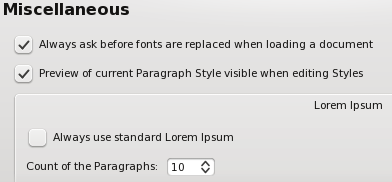
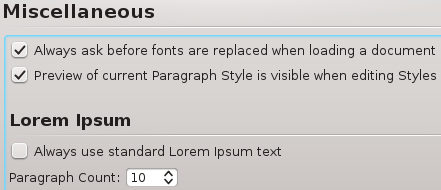
total rework of Preferences doc in manual
git-svn-id: https://scribus.net/svn/Scribus/trunk@17655 11d20701-8431-0410-a711-e3c959e3b870

diff --git a/Scribus/doc/en/settings1.html b/Scribus/doc/en/settings1.html
@@ -10,126 +10,202 @@
 <li><strong>Document Setup</strong> will refer to the document being edited, and changes made for that document will be saved with the document and apply when it is re-opened. If you have no document open, you cannot select this dialog.</li>
 <li><strong>Preferences</strong> in general changes settings for any future documents. It will be available whether or not you have any documents open. The following descriptions will primarily apply to Preferences, but we will point out differences compared with Document Setup as we go.</li>
 </ul>
-<br>
-<br>
 <table cellpadding="5">
 <tr><td width="200" valign="top"><ul>
-<li><a href="#1"><strong>General</strong></a></li>
-<li><a href="#2"><strong>Document</strong></a></li>
-<li><a href="#3"><strong>Guides</strong></a></li>
-<li><a href="#4"><strong>Typography</strong></a></li>
-<li><a href="#5"><strong>Tools</strong></a></li>
-<li><a href="#6"><strong>Hyphenation</strong></a></li>
-<li><a href="#7"><strong>Fonts</strong></a></li>
-<li><a href="#8"><strong>Preflight Verifier</strong></a></li>
+<li><a href="#1"><strong>User Interface</strong></a></li>
+<li><a href="#2"><strong>Paths</strong></a></li>
+<li><a href="#3"><strong>Document Setup</strong></a></li>
+<li><a href="#4"><strong>Guides</strong></a></li>
+<li><a href="#5"><strong>Typography</strong></a></li>
+<li><a href="#6"><strong>Item Tools</strong></a></li>
+<li><a href="#7"><strong>Operator Tools</strong></a></li>
+<li><a href="#8"><strong>Hyphenator</strong></a></li>
+<li><a href="#9"><strong>Fonts</strong></a></li>
 </ul></td>
 <td width="300" valign="top"><ul>
 </li>
-<li><a href="#9"><strong>Color Management</strong></a></li>
-<li><a href="#10"><strong>PDF Export</strong></a></li>
-<li><a href="#11"><strong>Document Item Attributes</strong></a></li>
-<li><a href="#11"><strong>Table of Contents and Indexes</strong></a></li>
-<li><a href="#12"><strong>Keyboard Shortcuts</strong></a></li>
-<li><a href="#13"><strong>Scrapbook</strong></a></li>
+<li><a href="#10"><strong>Color Management</strong></a></li>
+<li><a href="#11"><strong>Printer</strong></a></li>
+<li><a href="#12"><strong>PDF Export</strong></a></li>
+<li><a href="#13"><strong>Preflight Verifier</strong></a></li>
+<li><a href="#14"><strong>Document Item Attributes</strong></a></li>
+<li><a href="#15"><strong>Table of Contents</strong></a></li>
+<li><a href="#16"><strong>Keyboard Shortcuts</strong></a></li>
+<li><a href="#17"><strong>Scrapbook</strong></a></li>
+<li><a href="#18"><strong>Spelling</strong></a></li>
 </ul></td>
 <td valign="top"><ul>
-<li><a href="#14"><strong>Display</strong></a></li>
-<li><a href="#15"><strong>External Tools</strong></a></li>
-<li><a href="#16"><strong>Miscellaneous</strong></a></li>
-<li><a href="#17"><strong>Plugins</strong></a></li>
-<li><a href="#18"><strong>Short Words</strong></a></li>
-<li><a href="#19"><strong>Scripter</strong></a></li>
-<li><a href="#20"><strong>Document Information</strong></a></li>
+<li><a href="#19"><strong>Display</strong></a></li>
+<li><a href="#20"><strong>External Tools</strong></a></li>
+<li><a href="#21"><strong>Miscellaneous</strong></a></li>
+<li><a href="#22"><strong>Page Sizes</strong></a></li>
+<li><a href="#23"><strong>Plugins</strong></a></li>
+<li><a href="#24"><strong>Image Cache</strong></a></li>
+<li><a href="#25"><strong>Short Words</strong></a></li>
+<li><a href="#26"><strong>Scripter</strong></a></li>
+<li><a href="#27"><strong>Document Information</strong></a></li>
 </ul></td></tr>
 </table>
-<h3><a name="1"></a>General (not present in Document Setup)</h3>
-<p>You may have started up Scribus in a particular <strong>Language</strong> &ndash; here we expect to see the system default language, but you can override that setting, which will remain on future startups until you change again.</p>
-<p>The <strong>Theme</strong> will be whatever your main system theme is when none is selected, but otherwise your choices depend on your operating system or desktop environment and its available themes (if any). You can also change the size of the font used in the user interface. The various other settings are straightforward, and experimentation will be your guide.</p>
-<p>The various &ldquo;paths&rdquo; are the default locations Scribus will use. The path for scripts is where Scribus looks when you choose <em>Scripts > Execute Script</em> from the menu bar.</p>
-<table width="90%"><tr><td align="center"><img src="images/prefs_general.png" align="center" alt="Preferences: General" title="General Preferences" width="680"/></td></tr></table>
-<h3><a name="2"></a>Document</h3>
-<p>In Preferences, the various settings here will be those that you see when you create a new document (<em>File > New</em>). In the Document Setup, they will change the current document. The <strong>Page Size</strong> section should be easily understandable, with a large selection of standard sizes to choose from, in addition to <em>Custom</em>. The <strong>Document Layout</strong> choices have been the source of confusion for some. These simply apply to the relative placement of pages on your screen, and each will have the size as indicated, not some subdivision of it. <em>Double Sided</em> would typically be chosen for a book-like layout, and thus the First Page selector at the bottom allows the initial page to be Right or Left. This helps you use the appropriate <a href="pagetemplate1.html">Master Page</a> layout.</p>
-<table width="90%"><tr><td align="center"><img src="images/prefs_document.png" align="center" alt="Default Document Settings" title="Default Document Settings"  width="680" /></td><td width="275"><img src="images/prefs_document1.png" width="250"><p>Here is an example of Double Sided, Right Page as the first (also happens to be two-column). If you print these on a local printer, they will print as individual pages.</td></tr></table>
-<p><strong>Preset Layouts</strong> will be available for anything other than Single Page layout. What these represent are some time-honored ways to set the margins of the page, many based on some mathematical approach related to the dimensions of the page. Below we see the contrast of these various methods &ndash; these are all right pages of a double-sided layout.</p>
+For Scribus versions 1.5+, Preferences has a new look, mostly a redistribution of the same settings there were in previous versions.
+<p>
+<img src="images/prefs_15x.png">
+</p>
+<h3><a name="1"></a>User Interface (not present in Document Setup)</h3>
+<ul>
+<li><strong>Main Window</strong>
+<ul>
+<li><strong>Language:</strong> &ndash; here is the system default language (the choice with no name is American English).</li>
+<li><strong>Theme:</strong> your choices here depend on what is available on your sytem. <i>Use Small Widgets</i> can make some dialogs more compact.</li>
+<li><strong>Recent Documents:</strong> determines the maximum number of files listed under <i>File > Open Recent</i>.</li>
+<li><strong>Font Sizes:</strong> for menus and palettes may also affect the size of various dialogs by enlarging/shrinking the space needed for fonts.</li>
+</ul></li>
+<li><strong>Story Editor</strong>
+<ul><li>Here we can change the display font, color, and set Smart Text function. If you set these inside Story Editor from <i>Settings</i> you will override this and also reset the Preferences settings.</li>
+</ul></li>
+<li><strong>Interactivity</strong>
+<ul><li>Here are some settings affecting your mouse interactions with the canvas.</li></ul>
+</li>
+<li><strong>Start Up</strong>
+<ul><li>If you wish, you can choose not to have a splash screen or the initial dialog that appears when Scribus starts.</li></ul>
+</li>
+</ul>
+<h3><a name="2"></a>Paths</h3>
+The various &ldquo;paths&rdquo; are the default locations Scribus will use. The path for scripts is where Scribus looks when you choose <em>Scripts > Execute Script</em> from the menu bar.
+<h3><a name="3"></a>Document Setup</h3>
+<p><img src="images/prefs_docsetup.png"></p>
+<p>In Preferences, the various settings here will be those that you see when you create a new document (<em>File > New</em>). In the Document Setup, they will change the current document.</p>
+<ul>
+<li>Size</li>
+<ul>
+<li><strong>Page Size</strong> section should be easily understandable. You may be surprised to see only choices for A4, Letter, and Custom when you first use Scribus. This is because there is a separate category <a href="#22"><strong>Page Sizes</strong></a>, where you can add to these 3 default choices. with a large selection of standard sizes to choose from, in addition to <em>Custom</em>.</li>
+<li><strong>Orientation</strong>, either <i>Portrait</i> or <i>Landscape</i></li>
+<li><strong>Units</strong> refers to the page dimension units: <i>Points, Millimeters, Inches, Picas, Centimeters,</i> or <i>Cicero.</i></li>
+<li><strong>Width</strong> and <strong>Height</strong> will have preset values for <i>Page Size</i> standards. If you change either setting, the size automatically switches to <i>Custon</i>.</li>
+</ul>
+<li>Layout</li>
+<ul>
+<li><strong>Page Layout</strong> choices have been the source of confusion for some. These simply apply to the relative placement of pages on your screen, and each will have the size as indicated, not some subdivision of it. Choices are <i>Single Page, Double Page, 3-Fold,</i> and <i>4-Fold</i>. Double Page would typically be chosen for a book-like layout, and thus the First Page selector at the bottom allows the initial page to be <i>Right Page</i> or <i>Left Page</i>. This helps you use the appropriate <a href="pagetemplate1.html">Master Page</a> layout. 3-Fold displays will then have <i>Left Page, Middle,</i> and <i>Right Page</i> choices. Not surprisingly, 4-Fold will have the choices <i>Left Page, Middle Left, Middle Right,</i> and <i>Right Page</i>.</p></li>
+<table width="60%"><tr><td width="275"><img src="images/prefs_document1.png" width="250"></td><td>Here is an example of Double Page display, Right Page as the first (also happens to be two-column text frames).<p>If you print these on a local printer, they will print as individual pages, and this is also true for 3-Fold and 4-Fold local printer printing.</p></td></tr></table>
+</ul>
+<li>Margins and Bleeds</li>
+<ul>
+<li><strong>Preset Layouts</strong> will be available for anything other than Single Page layout. What these represent are some time-honored ways to set the margins of the page, many based on some mathematical approach related to the dimensions of the page. Below we see the contrast of these various methods &ndash; these are all right pages of a double-sided layout.</li>
 <p><table cellpadding="3"><tr>
 <td align="center"><img src="images/prefs_gutenberg.png"><p>Gutenberg</td><td align="center"><img src="images/prefs_magazine.png"><p>Magazine</td><td align="center"><img src="images/prefs_fibonacci.png"><p>Fibonacci</td><td align="center"><img src="images/prefs_goldenmean.png"><p>Golden Mean</td><td align="center"><img src="images/prefs_9parts.png"><p>Nine Parts</td>
 </tr></table>
-<h3><a name="3"></a>Guides</h3>
-<p>Although labeled <strong>Guides</strong>, there are many other settings here, mostly related. Guides can either show above or below your content. <strong>Snapping: Snap Distance</strong> applies when <em>Page > Snap to Guides</em> or <em>Page > Snap to Grid</em> has been selected. <strong>Grab Radius</strong> has to do with the size of the virtual space for grabbing and dragging a frame&rsquo;s handles. As the tooltips indicate, you must shut down and restart Scribus for these to take effect when they are changed.</p>
-<p>This panel sets the default distances and colors, as well as the snap to settings. <strong>Baseline Grids</strong> is the set of horizontal guides which forces text in multiple columns to align horizontally, as shown below. Settings for the distances for baselines are in Paragraph Styles, as well as the next panel <strong>Typography</strong></p>
-
+<li>If you choose <i>None</i> for the preset, then you can manually set each margin. If you check <strong>Link</strong> then all margin values are the same and change together. Note that except for Single Page display, there are <i>Inside</i> and <i>Outside</i> margins instead of <i>Left</i> and <i>Right</i>, so they are placed differently for left and right pages. Clicking the <strong>Printer Margins</strong> button allows you to set margins according to your local printer. The dialog shows the minimum margins for you printer, which you might just use as a reference.</li>
+<li>Using <strong>Bleeds</strong> requires an understanding of how they are used. The bleed space is designed to be trimmed off after printing, and allows for whatever is printed to come to the absolute edge of the paper. A typical bleed amount might be 1/8 inch (9 points) in the US, or 3 mm in Europe. If you begin with a standard paper size such as A4, the bleed width is <i>added</i> to the dimensions of that paper.</li>
+</ul>
+<li>Saving & Undo</li>
+<ul>
+<li><i>Save in Compressed Format</i> will gzip your Scribus documents, so that filenames end with <i>.sla.gz</i> &ndash; this is an automatic process which requires no knowledge of how this is done on your part.</li>
+<li><strong>Autosave</strong> can be turned off/on, and the interval between automatic saving can be set.</li>
+<li>Under <strong>Undo/Redo</strong>, you can enable or disable this system, and you can specify how many operations for Scribus to remember for undoing.</li>
+</ul>
+</ul>
+<h3><a name="4"></a>Guides</h3>
+<ul>
+<li>Placement</li>
+<p>Although labeled <strong>Guides</strong>, there are many other settings here, mostly related. Guides can either show above or below your content. You can now have a fine adjustment of the relative placement of Guides, Grid, Baseline Grid, and Margins with respect to your page content. <strong>Snapping: Snap Distance</strong> applies when <em>Page > Snap to Guides</em> or <em>Page > Snap to Grid</em> has been selected. <strong>Grab Radius</strong> has to do with the size of the virtual space for grabbing and dragging a frame&rsquo;s handles. As the tooltips indicate, you must shut down and restart Scribus for these to take effect when they are changed.</p>
 <table width="90%"><tr><td align="center"><img src="images/prefs_guides.png" alt="Guides and Baseline Grid Settings" align="middle" title="Guides and Baseline Grid Settings" /></td></tr></table>
-<table width="80%"><tr><td valign="top">By default, Guides and Margins will show, but can be changed here, along with the color of each. Major and Minor Grids do not show by default &ndash; here we have changed the default colors so you can easily see the difference in the screenshot to the right, with page edges shown in red, margins in blue, major grid light green, and minor grid in light magenta.
-<p>Finally, at the bottom of the dialog we can choose to show the baseline grid by default, and adjust its default settings.</p>
-<p>Find out more about the baseline grid in <a href="WwText.html#10">Working with Text</a>.</td>
+<ul>
+<li><i>Distances</i> sets up the spacing between major and minor <i>Grid</i> lines, and also for the <i>Baseline Grid</i> which is the set of horizontal guides to which text can be aligned. This is shown further in <a href="WwText.html#10">Working with Text</a>. The <i>Baseline Grid Offset</i> is the distance from the top of the page to the first line of the Baseline Grid.</li>
+</ul>
+<li>Visibility</li>
+<ul>
+<table width="70%"><tr><td valign="top">By default, Guides and Margins will show, but can be changed here. Major and Minor Grids do not show by default.
+<p>Here we have changed the default colors so you can easily see the difference in the screenshot to the right, with page edges shown in red, margins in blue, major grid light green, and minor grid in light magenta. A new setting is that instead of the grid consisting of lines as you see here, there can be crosses to mark the major grid intersections and dots for the lines.</p></td>
 <td><img src="images/prefs_guides1.png"></td>
 </tr>
 </table>
+</ul>
+<li>Colors &ndash; this is where you change the default colors of all these elements.</li>
+</ul>
+<h3><a name="5"></a>Typography</h3>
+<p>Here are the default settings for various typographic features.
+<table cellpadding="5"><tr>
+<td><img src="images/prefs_typog2.png"></td>
+<td><strong><i>Some typographic terms</i></strong><br />To the left, we are showing the baseline in gray, x-height or midline in green, ascender height in magenta, and descender height in blue. The terms &lsquo;x-height&rsquo; and &lsquo;descender height&rsquo; refer to the distance from the baseline, &lsquo;ascender height&rsquo; refers to the distance from the x-height. For clarity, the caps height was not marked, but this would be the top of the &lsquo;T&rsquo;.</td></tr></table> 
+<ul>
+<li>For <i>Subscript and Superscript</i>, settings are similar, with <i>Displacement</i> referring to the distance downward or upward, respectively, from the baseline, as a percentage of font size. <i>Scaling</i> is the size as a percentage of the font size.</li>
+<li>For <i>Underline</i> and <i>Strikeout</i> the <i>Displacement</i> will be relative to the baseline, and a percentage of the height of the descender or ascender respectively.</li>
+<li>The setting for <i>Small Caps</i> will refer to the creation of small caps by Scribus based on the font. Some fonts may include glyphs for small caps, which should be used if available.</li>
+<li>In addition, the amount of <i>Automatic Linespacing</i> can be adjusted relative to the size of the font. A setting of 100% here will make the linespacing about 116% of the size of the font &ndash; for example, a 12-point font would have linespacing of about 14 points.</li>
+</ul>
+<h3><a name="6"></a>Item Tools</h3>
+<p>In the Tools tab you can change the default settings for the various objects you create.</p>
+<p><img src="images/prefs_itemtools.png"></p>
+<ul>
+<li>Text &ndash; Fill Color and Shading, Line Color and Shading (Fill Color and Line Color refer to the frame), Tab Fill Character, default Tab width, number of Columns in a frame, Column Gap width, distances of text from the edges of the frame: Top, Left, Bottom, and Right. You also choose the default Font, its Size, its Color and Shading, its Stroke and Shading. Stroke refers to the outline of the glyph and Color is the fill. There is also a Preview at the bottom of the tab to see your changes as you make them.</li>
+<li>Images &ndash; Fill Color and Shading, Line Color and Shading, a check to Use an Embedded Clipping Path. You can choose Free Scaling for imported images and the default Scaling. Alternatively you might choose to Scale Image to Frame Size, and perhaps to Keep Aspect Ratio. Lastly, you choose the default screen resolution of images, which only applies to the display in Scribus, not the resolution in an exported PDF.</li>
+<li>Shapes &ndash; Fill Color and Shading, Line Color and Shading, Line Style, and Line Width.</li>
+<li>Regular Polygons &ndash; Polygons will inherit the fill and line settings from Shapes. Here you set the number of Corners and Rotational position of the figure. Inner Rotation is only active when you check Apply Factor. The Factor setting determines whether the sides of the polygon bow inward or outward, and Inner Curvature and Outer Curvature causes and inward or outward bowing of the line segments between corners. Since there is a preview window, you can see the effect of various changes.</li>
+<li>Line &ndash; Line Color and Shading, Line Style, Width, and the type of Start Arrow and End Arrow, if any.</li>
+<li>Calligraphic Pen &ndash; Fill Color and Shading, Line Color and Shading. Line here might also be called the &lsquo;Stroke&rsquo; or borders of the calligraphic line. Line Style and Pen Angle can also be set, and Line Width and Pen Width. Pen Width here is the fill of the calligraphic line, between the strokes.</li>
+<li>Arc &ndash; Start Angle and End Angle. A preview shows your settings graphically.</li>
+<li>Spiral &ndash; Start Angle (outer end of the spiral), End Angle (inner end of the spiral). Factor determines how sharply it spirals inward. Again, there is a preview window.</li>
+</ul> 
 
-<h3><a name="4"></a>Typography</h3>
-<p>Here are the default settings for various typographic features &ndash; subscript, superscript, automatic line spacing and scaling of small capitals.</p>
-<p>In addition, the amount of automatic linespacing can be adjusted relative to the size of the font. <em>Note that the 20% is in addition to the space required for the next line of text, so that the total space from one baseline to the next would be 120% of the font size.</em></p>
-<p><table width="90%"><tr><td align="center"><img src="images/prefs_typog.png" align="center" alt="Typography Tab Panel"/></td></tr></table>
-
-<h3><a name="5"></a>Tools</h3>
-<p>In the Tools tab you can change the defaults for text and image frames, shapes and polygons, and lines. In addition, there are page magnification settings, plus the defaults for duplication and rotation of objects.</p>
-
-<table width="100%">
-<tr><td align="center"><img src="images/prefs_tools.png" alt="Tools Tab Panel"/></td>
-<td><img src="images/prefs_tools1.png"/></tr>
-<tr><td align="center"><img src="images/prefs_tools2.png" alt="Tools Tab Panel"/></td>
-<td><img src="images/prefs_tools3.png"></tr>
-<tr><td align="center" colspan="2"><img src="images/prefs_tools4.png" alt="Tools Tab Panel"/></td></tr>
-<tr><td align="center"><img src="images/prefs_tools5.png">
-<td align="center"><img src="images/prefs_tools6.png" alt="Tools Tab Panel"/></td></tr>
-</table>
-
-<h3><a name="6"></a>Hyphenation</h3>
+<h3><a name="7"></a>Operator Tools</h3>
+<ul>
+<li>Zoom &ndash; here you set the limits for document zoom, with the absolute Minimum and Maximum being 1% and 3200% respectively. You also set the percentage of change as you click the &lsquo;-&rsquo; and &lsquo;+&rsquo; icons for zooming.</li>
+<li>Miscellaneous &ndash; when you do a simple duplication of an object (<i>Item > Duplicate</i>), here are settings for the amount of X and Y shift of the copy. The Constrain To setting for Rotation would apply when you rotate with the mouse while holding down Ctrl-Shift, and also when you make a line segment while holding down Ctrl-Shift. So you would see the position jump from 0° to 15° to 30°, and so on.</li>
+</ul>
+<h3><a name="8"></a>Hyphenator/Hyphenation</h3>
 <p>Hyphenation details are described here: <a href="hyphenator.html">Hyphenation in Scribus</a>.</p>
 
-<h3><a name="7"></a>Fonts</h3>
+<h3><a name="9"></a>Fonts</h3>
 <p>Selecting and installing fonts correctly is one of the most important configuration items with Scribus, and an extensive set of notes is here: <a href="fonts1.html">Fonts and Scribus</a>. If there is one part of the documentation you really must read, it is this one.</p>
 
-<h3><a name="8"></a>Preflight Verifier</h3>
-<p>See the information about <a href="print2.html">Printing Tools</a> to learn more about the configuration options in this panel.</p>
-
-<h3><a name="9"></a>Color Management</h3>
+<h3><a name="10"></a>Color Management</h3>
 <p>There are detailed notes on this topic in the <a href="cms.html">Color Management</a> section.
-<table width="90%"><tr><td align="center"><img src="images/prefs_colormgmt.png" alt="Color Management Preferences" title="Color Management Preferences" width="680" /></td></tr></table>
-<p><em>Note: You will not be able to export to PDF/X-3 if color management is not enabled, and the Preferences settings for this format will likewise not be available.</em></p>
-
-<h3><a name="10"></a>PDF Export</h3>
+<table width="90%"><tr><td align="center"><img src="images/prefs_colormgmt.png" alt="Color Management Preferences" title="Color Management Preferences" /></td></tr></table>
+<p><em>Note: You will not be able to export to PDF/X-3 if color management is not enabled, and the Preferences settings for this format will likewise not be available. You can only set the Monitor Profile if no document is open.</em></p>
+<h3><a name="11"></a>Printer/Printing</h3>
+The settings here of course apply to printing from your local printer attached to your computer, or perhaps printing to a file instead, which creates a PostScript file of your document. Thus, many of these are the same as you see in the printing dialog. So we can set our defaults in Preferences.
+<h3><a name="12"></a>PDF Export</h3>
 <p>Remember that the settings here simply change the default values for PDF Export. You can still override any settings with the PDF Export dialog. For more info on PDF look at <a href="pdfexport1.html">PDF Export Options</a> and <a href="pdfx3.html">PDF/X-3 and Scribus</a>.</p>
 
-<table width="90%" cellpadding="5"><tr><td align="center"><img src="images/prefs_pdfexport.png" alt="PDF Export Preferences" title="PDF Export Preferences" width="680"/></td></tr>
-<tr><td>New to Scribus 1.4.x is the inclusion of the ability to create bleeds, crop marks, and other printer marks as you export to PDF. Any bleed width is added to the page dimensions you selected when you created your document.
-<p>Note here an example of what you see when you do not have ICC profiles installed &ndash; <strong>PDF/X-3 Output Intent</strong> is not available.</td></tr>
-<tr><td align="center"><img src="images/prefs_pdfexport1.png" alt="PDF Export Preferences" title="PDF Export Preferences"/></td></tr></table>
+<table width="90%" cellpadding="5"><tr><td align="center"><img src="images/prefs_pdfexport.png" alt="PDF Export Preferences" title="PDF Export Preferences" /></td></tr>
+</table>
+<ul>
+<li>Pages &ndash; choose the <strong>Export Range</strong> for all pages, or according to your selection. You can also rotate the page 90°, 180°, or 270°, as well as mirror horizontally and vertically.</li>
+<li>File Options &ndash; starts with your default choice for PDF type or <strong>Compatibility:</strong> PDF 1.3, PDF 1.4, PDF 1.5, PDF/X-1a, PDF/X-3, or PDF/X-4. You may check the following options: <strong>Clip to Printer Margins, Generate Thumbnails, Save Linked Text Frames as Articles</strong> (potentially useful when navigating in the PDF), <strong>Include Layers</strong> (only an option for PDF 1.5 and PDF/X-4), <strong>Include Bookmarks</strong>, and <strong>Embed PDF and EPS Files (Experimental)</strong>.
+<br />There are <strong>Compression</strong> settings, mainly useful for images, to limit image resolution in the PDF in order to reduce the size of the PDF file. There is a <a href="http://wiki.scribus.net/canvas/Image_DPI_and_Scaling,_and_Resultant_File_Sizes">wiki article</a> which may give you some help with these settings.</li>
+<li>Security &ndash; here you can choose to encrypt your PDF, then create passwords for Owner and User. You can then choose which kinds of access you might forbid or allow, such as printing, copying, editing, or adding any annotations. If you have chosen any of the PDF/X types for output, you will not have the Security feature as an option.</li>
+<li>Color &ndash; If you are going to have your PDF commercially printed, you will likely want to discuss appropriate settings for this tab. <strong>Output Intended For:</strong> should be set for <i>Printer</i> if you are having this commercially printed. For an online document or if you will print on the printer attached to your computer, choose <i>Screen/Web</i>, You can also choose <i>Grayscale</i> if appropriate. You may choose ICC profiles in this tab, except when you have chosen one of the PDF/X types. <strong>Custom Rendering</strong> should only be set when you are instructed to by your printer, and with the settings recommended.</li>
+<li>Pre-Press &ndash; in this tab you can choose to create <strong>Crop Marks, Bleed Marks, Color Bars, Registration,</strong> and <strong>Page Informtion</strong>, which are all separate from having bleed on the page. Also note that you can make <strong>Bleed Settings</strong> here, as well as on the Document. If you have set these for the Document, then you may safely leave these at 0, since you have the option when exporting to use the Document bleed settings. The difference between the two is that if bleed is set here but not on the Document, you will not see the bleed space as you work in Scribus, and it will be added at export. If you have chosen one of the PDF/X types for output, you will be able to edit the InfoString.</li>
+</ul>
 
-<h3><a name="11"></a>Documents Item Attributes</h3>
+<h3><a name="13"></a>Preflight Verifier</h3>
+<p>See the information about <a href="print2.html">Printing Tools</a> to learn more about the configuration options in this panel.</p>
+
+<h3><a name="14"></a>Document Item Attributes</h3>
 <p>Aside from storing additional information about a given item, this feature is currently most useful in connection with the creation of a table of contents.</p>
-<h3>Table of Contents and Indexes</h3>
-<p>These two subdialogs relate to each other. One use of these features is explained here: <a href="http://wiki.scribus.net/index.php/Creating_a_Table_of_Contents">http://wiki.scribus.net/index.php/Creating_a_Table_of_Contents</a></p>
+<h3><a name="15"></a>Table of Contents</h3>
+<p>A use of the settings is explained here: <a href="http://wiki.scribus.net/index.php/Creating_a_Table_of_Contents">http://wiki.scribus.net/index.php/Creating_a_Table_of_Contents</a></p>
 
-<h3><a name="12"></a>Keyboard Shortcuts</h3>
+<h3><a name="16"></a>Keyboard Shortcuts</h3>
 
 <table width="90%"><tr><td align="center"><img src="images/prefs_keyboard.png" alt="Setting the Keyboard Shortcuts  for Scribus" title="Setting the Keyboard Shortcuts for Scribus"/></td></tr></table>
 
 <p>Here you see the various default keyboard shortcuts, which are editable, and many others can be assigned. Moreover, once customized, you can export them into a separate XML file that can be exported and saved separately, along with making it portable to other machines. The default file suffix is .ksxml. This is a Unicode file and should not have issues being transported across platforms, with the only caveat that Macs have an option and command meta key, where Linux, UNIX, OS/2, eComStation and Windows share common keyboards.</p>
 
-<h3><a name="13"></a>Scrapbook</h3>
+<h3><a name="17"></a>Scrapbook</h3>
 <p>With Scrapbooks, you can <em>right button</em> drag and drop frequently used items, including pictures, images and text files for quick placement. Scrapbooks can be saved with a file or independently of a document, as a separate Scrapbook which can be loaded use with many different Documents. Separate Scrapbooks are kept with a <code>.scs</code> designation. This panel sets the defaults for the thumbnail preview size of items in the Scrapbook palette and whether Scrapbooks should be saved automatically when changed.</p>
-<h3><a name="14"></a>Display (not all of these are available in Document Settings)</h3>
-<p>Most of these are pretty straightforward. Depending on the size of your screen, you can use this to adjust the rescale and rearrange your workspace. If you have plenty of space, you may want to adjust the display to accurately reflect your document size by default. Remember, you can adjust the magnification settings in <em>Tools > Zoom</em>.</p>
+<h3><a name="18"></a>Spelling</h3>
+<p>Manage your available spelling dictionaries here.</p>
+<p><img src="images/prefs_spelling.png"></p>
+<h3><a name="19"></a>Display (not all of these are available in Document Settings)</h3>
+<p>Most of these are pretty straightforward. Depending on the size of your screen, you can use this to adjust the rescale and rearrange your workspace. If you have plenty of space, you may want to adjust the display to accurately reflect your document size by default. Remember, you can adjust the magnification settings in <em>Tools > Zoom</em>. You can only adjust <i>Display Scaling</i> in Preferences and with no document open.</p>
 
 <table width="90%"><tr><td align="center"><img src="images/prefs_display.png" alt="Display Settings" title="Display Settings" /></td></tr></table>
 
 <p>The Colors tab allows for customization of the colors used for various screen features, such as marking the margins, grids, and guides. In Document Settings only Fill Color is available. It&rsquo;s also worth mentioning here that the Fill Color only has to do with the <em>appearance</em> of the document background and is not printed or exported to PDF.
-<h3><a name="15"></a>External Tools</h3>
+<h3><a name="20"></a>External Tools</h3>
 <p>This panel enables you to change the default settings for the location of Ghostscript and other external programs. If you have installed Ghostscript before installing Scribus, it is usually detected automatically. If you receive an error message indicating that EPS files cannot be used, this is where the settings can be changed to allow Scribus to find the correct location of Ghostscript.</p>
-<h4>Ghostscript</h4>
 <p><strong>Linux, UNIX, OS/2, eComStation and Windows:</strong></p>
-<table width="90%"><tr><td align="center"><img src="images/prefs_exttools.png" alt="External Tools Settings" title="External Tools Settings" width="680" /></td></tr></table>
+<table width="90%"><tr><td align="center"><img src="images/prefs_exttools.png" alt="External Tools Settings" title="External Tools Settings" /></td></tr></table>
 <p>This particular screenshot comes from Linux and is also applicable to other UNIX systems. See the <a href="readme-win32.html">Windows</a>, <a href="readme-os2.html">OS/2 and eComStation</a> specific information for these operating systems. Some additional information about Ghostscript can be found in <a href="toolbox7.html">Advanced Ghostscript.</a></p>
 <p><strong>Mac OS X</strong></p>
 <table width="100%"><tr><td align="center"><img src="images/prefs-mac-1.png" alt="External Tools Settings" title="External Tools Settings" /></td></tr></table>
@@ -139,33 +215,42 @@
 <p>You are not restricted to using GIMP for image editing, and could use any available image editor such as Krita, or even Photoshop. However, GIMP is set as the default application, as it&rsquo;s the most popular Open Source image editing software.
 <p><strong>Web Browser</strong></p>
 <p>Here you can set the path to the executable file of the browser that will be used if you click an external link in the Help Browser or select an external source from the <i>Help</i> menu.</p>
+<p><strong>PDF Viewer</strong></p>
+<p>When you export to PDF, you now have an option to open your PDF in a viewer.</p>
+<p><strong>Uniconvertor</strong></p>
+<p>This is used for importing various graphics file formats so that they can be used in Scribus. Further specifics about <a href="http://sk1project.org/modules.php?name=Products&product=uniconvertor">Uniconvertor are here.</a></p>
 <p><strong>Render Frames</strong></p>
 <p>See <a href="WwRenderframes.html">Working with Render Frames</a>.</p>
-
-
-<h3><a name="16"></a>Miscellaneous</h3>
+<h3><a name="21"></a>Miscellaneous</h3>
 <table width="80%"><tr><td align="center"><img src="images/prefs_misc.png" title="Miscellaneous Settings"></td></tr></table>
-<h3><a name="17"></a>Plugins</h3>
+<h3><a name="22"></a>Page Sizes</h3>
+<p>Here we see why we had such a short list of choices for document sizes in <i>Document Setup</i>, and of course here is the remedy.</p>
+<p><img src="images/prefs_pagesizes.png"></p>
+<h3><a name="23"></a>Plugins</h3>
 <p>This is an informational display about the various plug-ins you have at your disposal, how to use them, and where their libraries are located.
+<h3><a name="24"></a>Image Cache</h3>
+<p>Using an image cache can speed up screen refreshes and migration through a larger document with many images.</p>
+<p><img src="images/prefs_imagecache.png"></p>
 
-<h3><a name="18"></a>Short Words</h3>
+<h3><a name="25"></a>Short Words</h3>
 <img src="images/prefs_shortwords.png">
 <p>Short Words is a plug-in to assist with adding non-breaking spaces to abbreviations like Mr. and measurements like km. Details on configuration and use are here: <a href="short-words.html">Short Words in Scribus</a>. </p>
 
-<h3><a name="19"></a>Scripter</h3>
+<h3><a name="26"></a>Scripter</h3>
 <p>If the <a href="scripter1.html">Scripter plug-in</a> is activated at startup, you will not need to make any changes here to use the included Python scripts.</p>
 <p>Scripter Extensions are special Scripter module or scripts which are loaded at startup to modify the abilities of the Python Scripter plug-in within Scribus. Details are <a href="scripter-extensions.html">here</a>. The Console tab is for choosing syntax highlighting colors within the Scripter Console.</p>
-<h3><a name="20"></a>Document Information (available in Document Settings but not in Preferences)</h3>
+<h3><a name="27"></a>Document Information (available in Document Settings but not in Preferences)</h3>
 See the section on <a href="docinfo.html">Document Information</a>.
 <h3>Where Are the Preferences Files?</h3>
 <p>Scribus&rsquo; preferences are kept in a hidden directory <code>.scribus</code>, the location of which is as follows:
 <ul>
 <li><strong>Linux/UNIX:</strong> <code>/home/username/.scribus</code></li>
 <li><strong>Mac OS X:</strong> <code>User/username/.scribus</code></li>
-<li><strong>OS/2 and eComStation</strong>: <code>X:\SCRIBUS-1.4.x-OS2-date\scribus\.scribus</code></li>
-<li><strong>Windows:</strong> <code>C:\Documents and Settings/username/.scribus</code></li>
+<li><strong>OS/2 and eComStation</strong>: <code>X:\SCRIBUS-1.5.x-OS2-date\scribus\.scribus</code></li>
+<li><strong>Windows:</strong> <code>C:\Documents and Settings\username\.scribus</code></li>
 </ul>
-<p>Within the directory are a <code>.scribus14.rc</code> file, a <code>scribusfont.rc</code> file (which preserves your font preferences) and a <code>prefs14.xml</code> file. These files are stored in XML format, so you can inspect and edit their contents with a text editor. If you have installed Python, there will also be a <code>scripter.rc</code> file that lists most recently used scripts. There are also several other directories, most which are comprised of configuration or history files. If you are encountering any issues with a previously working Scribus installation, <strong>renaming</strong>, not deleting, the <code>.scribus</code> directory may be a good idea. See the notes on <a href="fileproblems.html">Troubleshooting</a> for more information.</p>
+<p>Within the directory are a <code>.scribus150.rc</code> file, a <code>scribusfont.rc</code> file (which preserves your font preferences) and a <code>prefs14.xml</code> file. These files are stored in XML format, so you can inspect and edit their contents with a text editor. If you have installed Python, there will also be a <code>scripter.rc</code> file that lists most recently used scripts. There are also several other directories, most which are comprised of configuration or history files. There is also a <code>prefs150.xml</code> which mostly contains information about the canvas when you last closed Scribus, including which dialogs were open.</p>
+<p>If you are encountering any issues with a previously working Scribus installation, <strong>renaming</strong>, not deleting, the <code>.scribus</code> directory may be a good idea &ndash; this is useful when you have altered settings in an unacceptable way, and you want to go back to the defaults, which you have forgotten. See the notes on <a href="fileproblems.html">Troubleshooting</a> for more information.</p>
 
 <hr>
 <p>See also</p>
